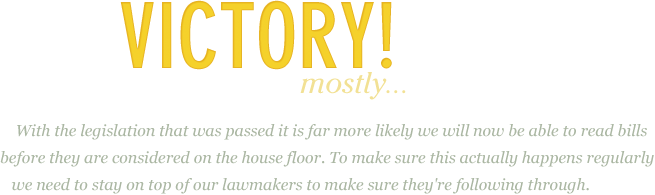
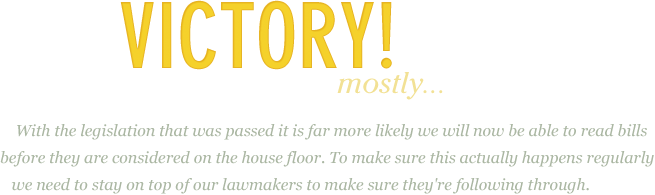
changes

Changed region(s): [[0.458, 0.3692, 0.6718, 0.5231]]

diff --git a/templates/base.html b/templates/base.html
@@ -4,14 +4,13 @@
 {% load media %}
 <html version="HTML+RDFa 1.1" lang="en">
 <head>
-
-    <meta charset="utf-8"> 
-    <meta name="description" content="Improve the legislative process by posting bills online for 72 hours before debate!">
-    <meta property="og:site_name" content="ReadTheBill.org">
+    <meta charset="utf-8" /> 
+    <meta name="description" content="Improve the legislative process by posting bills online for 72 hours before debate!" />
+    <meta property="og:site_name" content="ReadTheBill.org" />
 	{% block opengraph %}
-	    <meta property="og:title" content="Read The Bill">
-	    <meta property="og:description" content="Improve the legislative process by posting bills online for 72 hours before debate!">
-	    <meta property="og:type" content="cause">
+	    <meta property="og:title" content="Read The Bill" />
+	    <meta property="og:description" content="Improve the legislative process by posting bills online for 72 hours before debate!" />
+	    <meta property="og:type" content="cause" />
 	    <meta property="og:url" content="http://readthebill.org/">
 		<meta property="og:image" content="http://ia.media-imdb.com/images/rock.jpg" />
 	{% endblock %}
@@ -19,7 +18,9 @@
     {% block meta %}{% endblock %}
     
     <title>{% block title %}Read The Bill{% endblock %}</title>
-
+    <!--[if lt IE 9]>
+    <script src="http://html5shiv.googlecode.com/svn/trunk/html5.js"></script>
+    <![endif]-->
     {% css "css/readthebill.css" %}
     <!--[if IE]><link rel="stylesheet" href="http://media.sunlightprojects.org/readthebill/css/ie.css" type="text/css" media="screen, projection" /><![endif]-->
     <style type="text/css">
@@ -70,7 +71,7 @@
         <div class="container noicon">
             <div class="column span-24" id="sf_footer">
                <div id="sf_footer_box">
-                   <div id="sf_footer_head">
+                   <div class="sf_footer_head">
                        <h6>Contact</h6>
                        <div id="sf_footer_address">
                            <div class="vcard">
@@ -84,7 +85,7 @@
                            <ul><li><a href="http://www.sunlightfoundation.com/contact/">Send Us an Email</a></li></ul>
                        </div>
                    </div>
-                   <div id="sf_footer_head">
+                   <div class="sf_footer_head">
                        <h6>About Sunlight</h6>
                        <ul>
                            <li><a href="http://www.sunlightfoundation.com/mission/">Mission Statement</a></li>
@@ -94,7 +95,7 @@
                            <li><a href="http://www.sunlightfoundation.com/privacy/">Privacy Policy</a></li>
                        </ul>
                    </div>
-                   <div id="sf_footer_head">
+                   <div class="sf_footer_head">
                        <h6>Communications</h6>
                        <ul>
                            <li><a href="http://blog.sunlightfoundation.com">Our Blog</a></li>
@@ -104,7 +105,7 @@
                            <li><a href="http://www.sunlightfoundation.com/logos/">Logos for Print/Web</a></li>
                        </ul>
                    </div>
-                   <div id="sf_footer_head">
+                   <div class="sf_footer_head">
                        <h6>Useful Sites</h6>
                        <ul>
                            <li><a href="http://opencongress.org/">OpenCongress.org</a></li>
@@ -113,7 +114,7 @@
                            <li><a href="http://sunlightlabs.com">Sunlight Labs</a></li>
                        </ul>
                    </div>
-                   <div id="sf_footer_head">
+                   <div class="sf_footer_head">
                        <h6>We're Social</h6>
                        <ul>
                            <li><a href="http://twitter.com/sunlightnetwork">Twitter</a></li>

diff --git a/templates/index.html b/templates/index.html
@@ -15,7 +15,7 @@
 {% block feature %}
 	<div id="featureArea">
         <div id="featureLeft">
-            <h2><big>Victory</big> <small>mostly...</small></h2>
+            <h2>Victory <small>mostly...</small></h2>
             <p>With the legislation that was passed it is far more likely we will now be able to read bills before they are considered on the house floor. To make sure this actually happens regularly we need to stay on top of our lawmakers to make sure they're following through.</p>
         </div>    
     </div>

diff --git a/media/css/rtb.css b/media/css/rtb.css
@@ -113,7 +113,7 @@ ul.blog_roll_new li {margin:0; border-bottom:1px solid #f4f4f4; padding:10px 0 1
 		#sf_footer_box { padding:10px; margin-top:.5em; margin-bottom:.5em; float:left; width:910px; margin-left:10px; }
 		#sf_footer_box ul { padding:0 0 1.25em 0; margin:0; }
 		#sf_footer_box li { padding:0; margin:0;}
-		#sf_footer_head { width:20%; float:left; }
+		.sf_footer_head { width:20%; float:left; }
 		#sf_footer_address { margin:0; }
 
 /* misc crap leftover */

diff --git a/media/style/rtb.css b/media/style/rtb.css
@@ -118,7 +118,7 @@ ul.blog_roll_new li {margin:0; border-bottom:1px solid #f4f4f4; padding:10px 0 1
 		#sf_footer_box ul { padding:0 0 1.25em 0; margin:0; }
 		#sf_footer_box li { padding:0; margin:0;}
 
-		#sf_footer_head { width:20%; float:left; }
+		.sf_footer_head { width:20%; float:left; }
 		#sf_footer_address { margin:0; }
 
 /* misc crap leftover */
